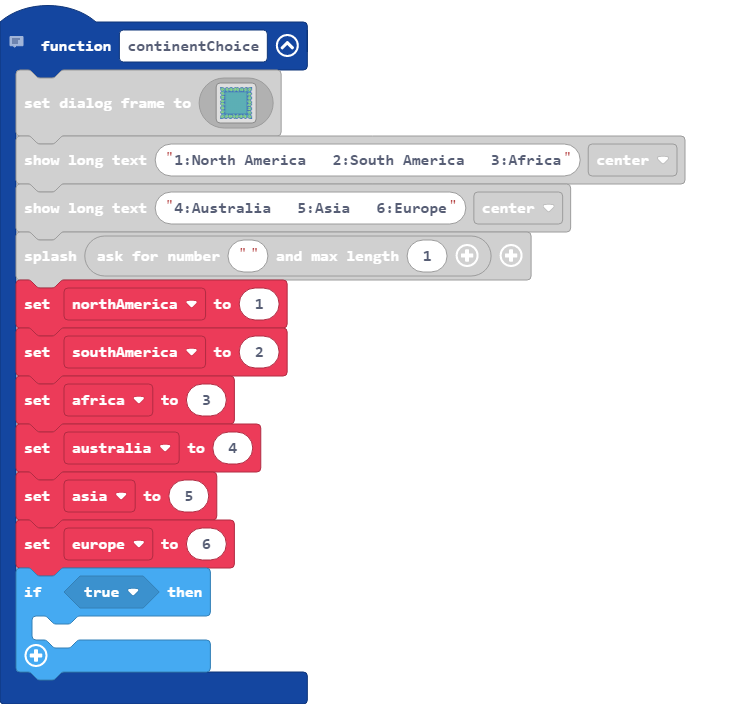
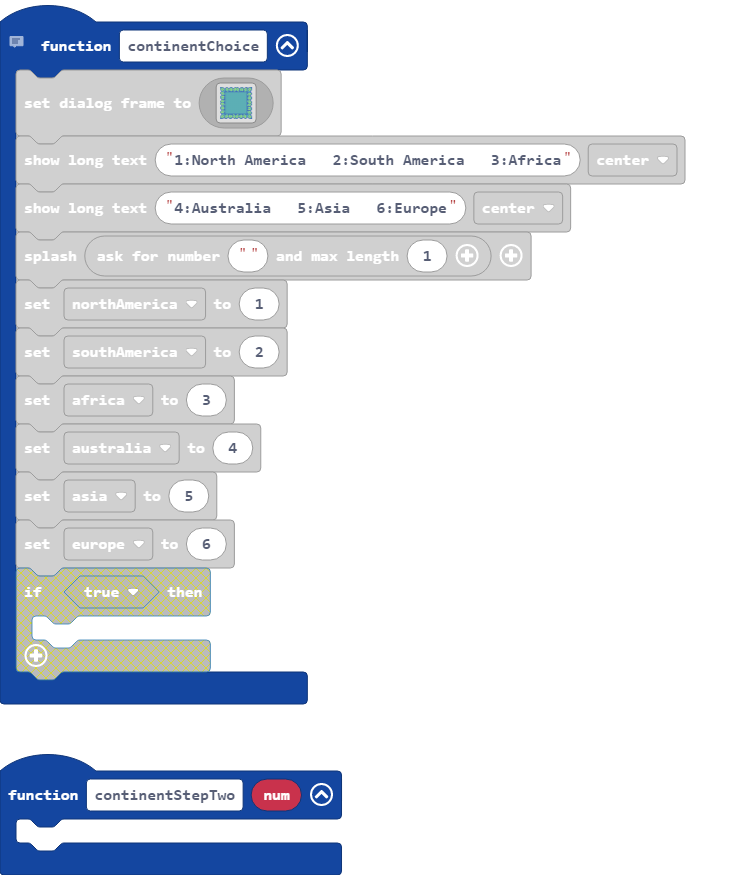
Update main.blocks, main.ts

diff --git a/main.ts b/main.ts
@@ -1,3 +1,6 @@
+function continentStepTwo (num: number) {
+	
+}
 // this function takes the user to the next step and shows them the choices and asks them for a number
 function continentChoice () {
     game.setDialogFrame(img`
@@ -59,9 +62,6 @@ function continentChoice () {
     australia = 4
     asia = 5
     europe = 6
-    if (true) {
-    	
-    }
 }
 let europe = 0
 let asia = 0
